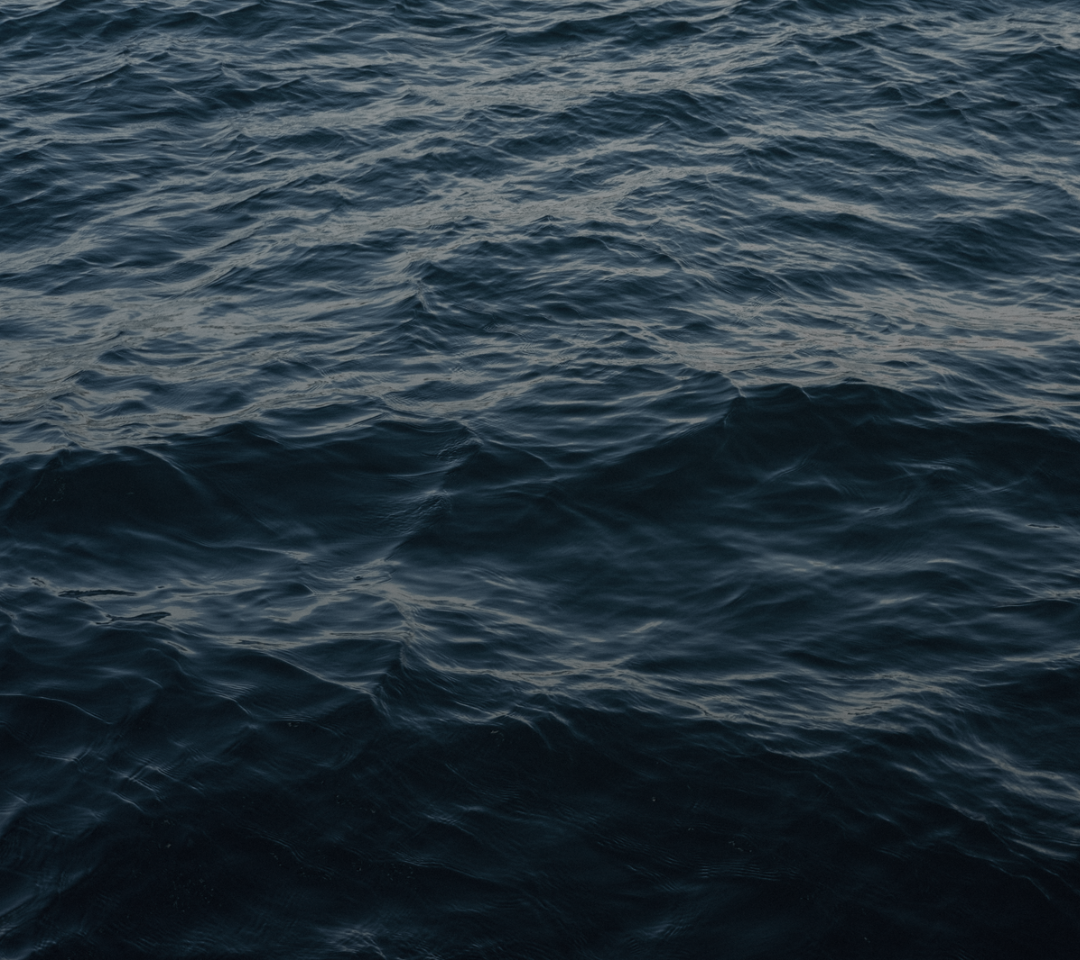
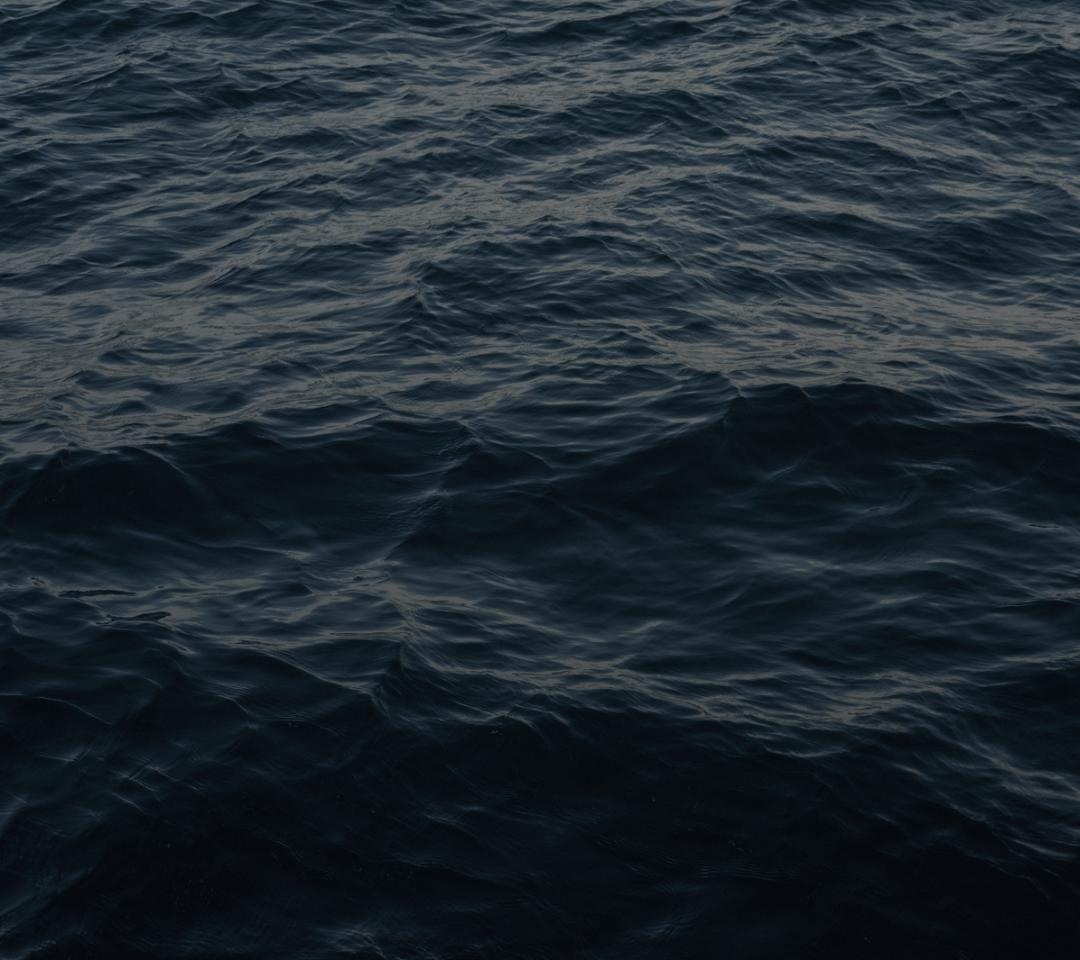
Add files via upload

diff --git a/index.html b/index.html
@@ -101,6 +101,7 @@ a { color:inherit; }
   text-decoration:none; transition:background 160ms, color 160ms;
 }
 .btn:hover { background:transparent; color:var(--ink); }
+.arrow { width:11px; height:11px; flex:none; display:block; }
 .btn--outline { background:transparent; color:var(--ink); }
 .btn--outline:hover { background:var(--ink); color:var(--on-ink); }
 
@@ -137,7 +138,7 @@ a { color:inherit; }
 .card__num { display:flex; justify-content:space-between; align-items:baseline; margin-bottom:var(--space-5); }
 .card__title { font-size:44px; line-height:.98; font-weight:700; letter-spacing:-.03em; margin:0 0 var(--space-4); }
 .card__title .headline-light { font-size:inherit; letter-spacing:inherit; }
-.card__hook { font-size:24px; line-height:1.2; margin:0 0 var(--space-5); color:var(--ink-soft); }
+.card__hook { font-weight:700 !important; font-size:24px; line-height:1.2; margin:0 0 var(--space-5); color:var(--ink-soft); }
 .card__text { margin:0 0 var(--space-6); max-width:var(--layout-text); }
 .facts { display:grid; grid-template-columns:1fr 1fr; margin:0 0 var(--space-6); border-top:1px solid var(--rule-soft); }
 .facts > div { padding:var(--space-3) var(--space-4) var(--space-3) 0; border-bottom:1px solid var(--rule-soft); }
@@ -159,8 +160,8 @@ a { color:inherit; }
 details.policy { margin-top:var(--space-5); border-top:1px solid var(--rule-soft); padding-top:var(--space-3); }
 details.policy summary { cursor:pointer; list-style:none; color:var(--ink-muted); }
 details.policy summary::-webkit-details-marker { display:none; }
-details.policy summary::after { content:"  ↘"; }
-details.policy[open] summary::after { content:"  ↗"; }
+details.policy summary::after { content:"  \2198\FE0E"; }
+details.policy[open] summary::after { content:"  \2197\FE0E"; }
 details.policy p { margin:var(--space-3) 0 0; font-size:14px; line-height:1.5; color:var(--ink-muted); max-width:var(--layout-text); }
 
 /* ---------- 3. combo ---------- */
@@ -261,14 +262,14 @@ details.policy p { margin:var(--space-3) 0 0; font-size:14px; line-height:1.5; c
             <span class="field">[ workshop ao vivo ]</span>
           </div>
         </div>
-        <p class="card__hook serif-italic">Talvez você não precise de mais metas de sucesso mas sim de espaço para questionar os deveres que aprendeu a obedecer.</p>
+        <p class="card__hook serif-italic">Talvez você não precise de mais metas de sucesso mas sim de espaço para questionar as regras que aprendeu a obedecer.</p>
         <p class="card__text body">Um workshop de processo criativo e autoconhecimento para conseguir encerrar o ciclo que termina sem culpa e aprender a escolher metas que realmente façam sentido para a sua alma.</p>
         <dl class="facts">
           <div><dt class="field">Data</dt><dd class="body-s">13.12</dd></div>
           <div><dt class="field">Hora</dt><dd class="body-s" data-info="workshop-hora"></dd></div>
         </dl>
         <div class="card__buy">
-          <a class="btn btn--outline" data-link="workshop" href="#">Ver opção <span aria-hidden="true">↘</span></a>
+          <a class="btn btn--outline" data-link="workshop" href="#">Ver opção <svg class="arrow" viewBox="0 0 12 12" aria-hidden="true"><path d="M2 2 L10 10 M10 3.5 V10 H3.5" fill="none" stroke="currentColor" stroke-width="1.6" stroke-linecap="square"/></svg></a>
         </div>
       </article>
 
@@ -289,7 +290,7 @@ details.policy p { margin:var(--space-3) 0 0; font-size:14px; line-height:1.5; c
           <div><dt class="field">Hora</dt><dd class="body-s">21:00</dd></div>
         </dl>
         <div class="card__buy">
-          <a class="btn btn--outline" data-link="ritual" href="#">Ver opção <span aria-hidden="true">↘</span></a>
+          <a class="btn btn--outline" data-link="ritual" href="#">Ver opção <svg class="arrow" viewBox="0 0 12 12" aria-hidden="true"><path d="M2 2 L10 10 M10 3.5 V10 H3.5" fill="none" stroke="currentColor" stroke-width="1.6" stroke-linecap="square"/></svg></a>
         </div>
       </article>
     </div>
@@ -316,7 +317,7 @@ details.policy p { margin:var(--space-3) 0 0; font-size:14px; line-height:1.5; c
           <li><span>02</span>Ritual da Virada \\ AKITU</li>
         </ol>
         <div class="card__buy">
-          <a class="btn btn--outline" data-link="combo" href="#">Ver opção <span aria-hidden="true">↘</span></a>
+          <a class="btn btn--outline" data-link="combo" href="#">Ver opção <svg class="arrow" viewBox="0 0 12 12" aria-hidden="true"><path d="M2 2 L10 10 M10 3.5 V10 H3.5" fill="none" stroke="currentColor" stroke-width="1.6" stroke-linecap="square"/></svg></a>
         </div>
       </article>
     </div>
@@ -353,7 +354,7 @@ details.policy p { margin:var(--space-3) 0 0; font-size:14px; line-height:1.5; c
           </ul>
         </div>
         <div class="card__buy">
-          <a class="btn btn--outline" data-link="carta" href="#">Ver opção <span aria-hidden="true">↘</span></a>
+          <a class="btn btn--outline" data-link="carta" href="#">Ver opção <svg class="arrow" viewBox="0 0 12 12" aria-hidden="true"><path d="M2 2 L10 10 M10 3.5 V10 H3.5" fill="none" stroke="currentColor" stroke-width="1.6" stroke-linecap="square"/></svg></a>
         </div>
         <details class="policy">
           <summary class="field">Política de cancelamento</summary>
@@ -382,7 +383,7 @@ details.policy p { margin:var(--space-3) 0 0; font-size:14px; line-height:1.5; c
           </ul>
         </div>
         <div class="card__buy">
-          <a class="btn btn--outline" data-link="mapa" href="#">Ver opção <span aria-hidden="true">↘</span></a>
+          <a class="btn btn--outline" data-link="mapa" href="#">Ver opção <svg class="arrow" viewBox="0 0 12 12" aria-hidden="true"><path d="M2 2 L10 10 M10 3.5 V10 H3.5" fill="none" stroke="currentColor" stroke-width="1.6" stroke-linecap="square"/></svg></a>
         </div>
         <details class="policy">
           <summary class="field">Política de cancelamento</summary>
